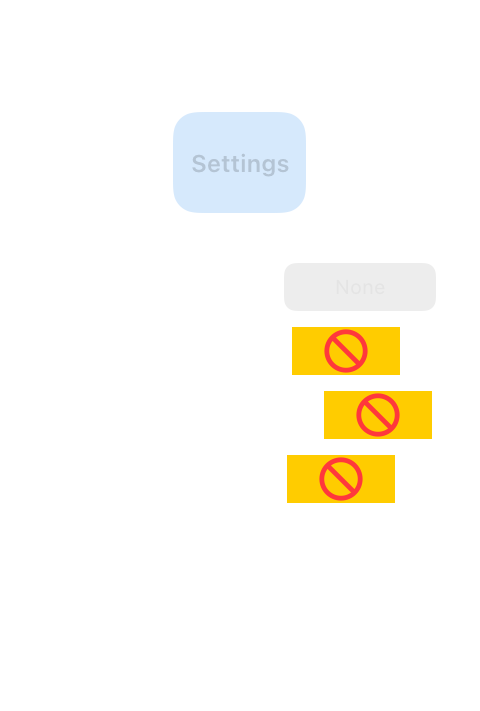
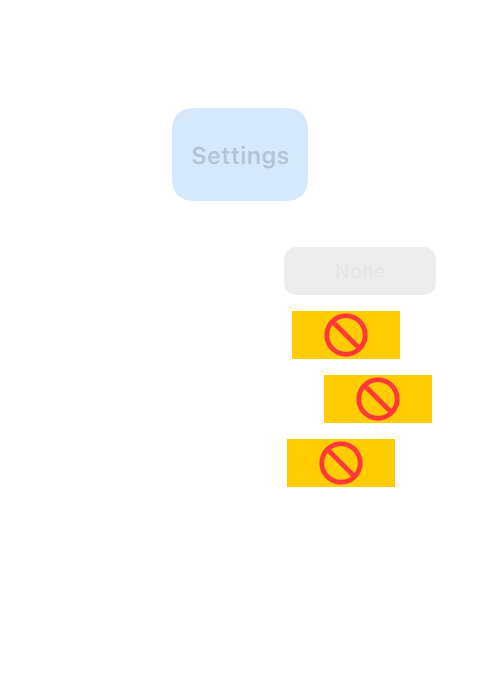
Reduce Liquid Glass tab height

diff --git a/TomatoBar/View.swift b/TomatoBar/View.swift
@@ -219,9 +219,9 @@ private struct GlassTabBar: View {
             tab(.sounds, title: NSLocalizedString("TBPopoverView.sounds.label",
                                                   comment: "Sounds label"))
         }
-        .padding(4)
+        .padding(2)
         .frame(maxWidth: .infinity)
-        .liquidGlassPanel(cornerRadius: 16, interactive: true)
+        .liquidGlassPanel(cornerRadius: 12, interactive: true)
     }
 
     private func tab(_ childView: ChildView, title: String) -> some View {
@@ -240,7 +240,7 @@ private struct GlassTabBar: View {
                     .font(.system(size: 12, weight: selection == childView ? .semibold : .regular))
                     .lineLimit(1)
                     .frame(maxWidth: .infinity)
-                    .padding(.vertical, 6)
+                    .padding(.vertical, 4)
             }
             .contentShape(RoundedRectangle(cornerRadius: 12, style: .continuous))
         }
@@ -248,7 +248,7 @@ private struct GlassTabBar: View {
     }
 
     private var selectedTabBackground: some View {
-        RoundedRectangle(cornerRadius: 12, style: .continuous)
+        RoundedRectangle(cornerRadius: 10, style: .continuous)
             .fill(Color.accentColor.opacity(0.16))
             .modifier(SelectedTabGlass())
     }
@@ -260,7 +260,7 @@ private struct SelectedTabGlass: ViewModifier {
         if #available(macOS 26.0, *) {
             content
                 .foregroundStyle(.clear)
-                .glassEffect(.regular.interactive(), in: .rect(cornerRadius: 12))
+                .glassEffect(.regular.interactive(), in: .rect(cornerRadius: 10))
         } else {
             content
         }
